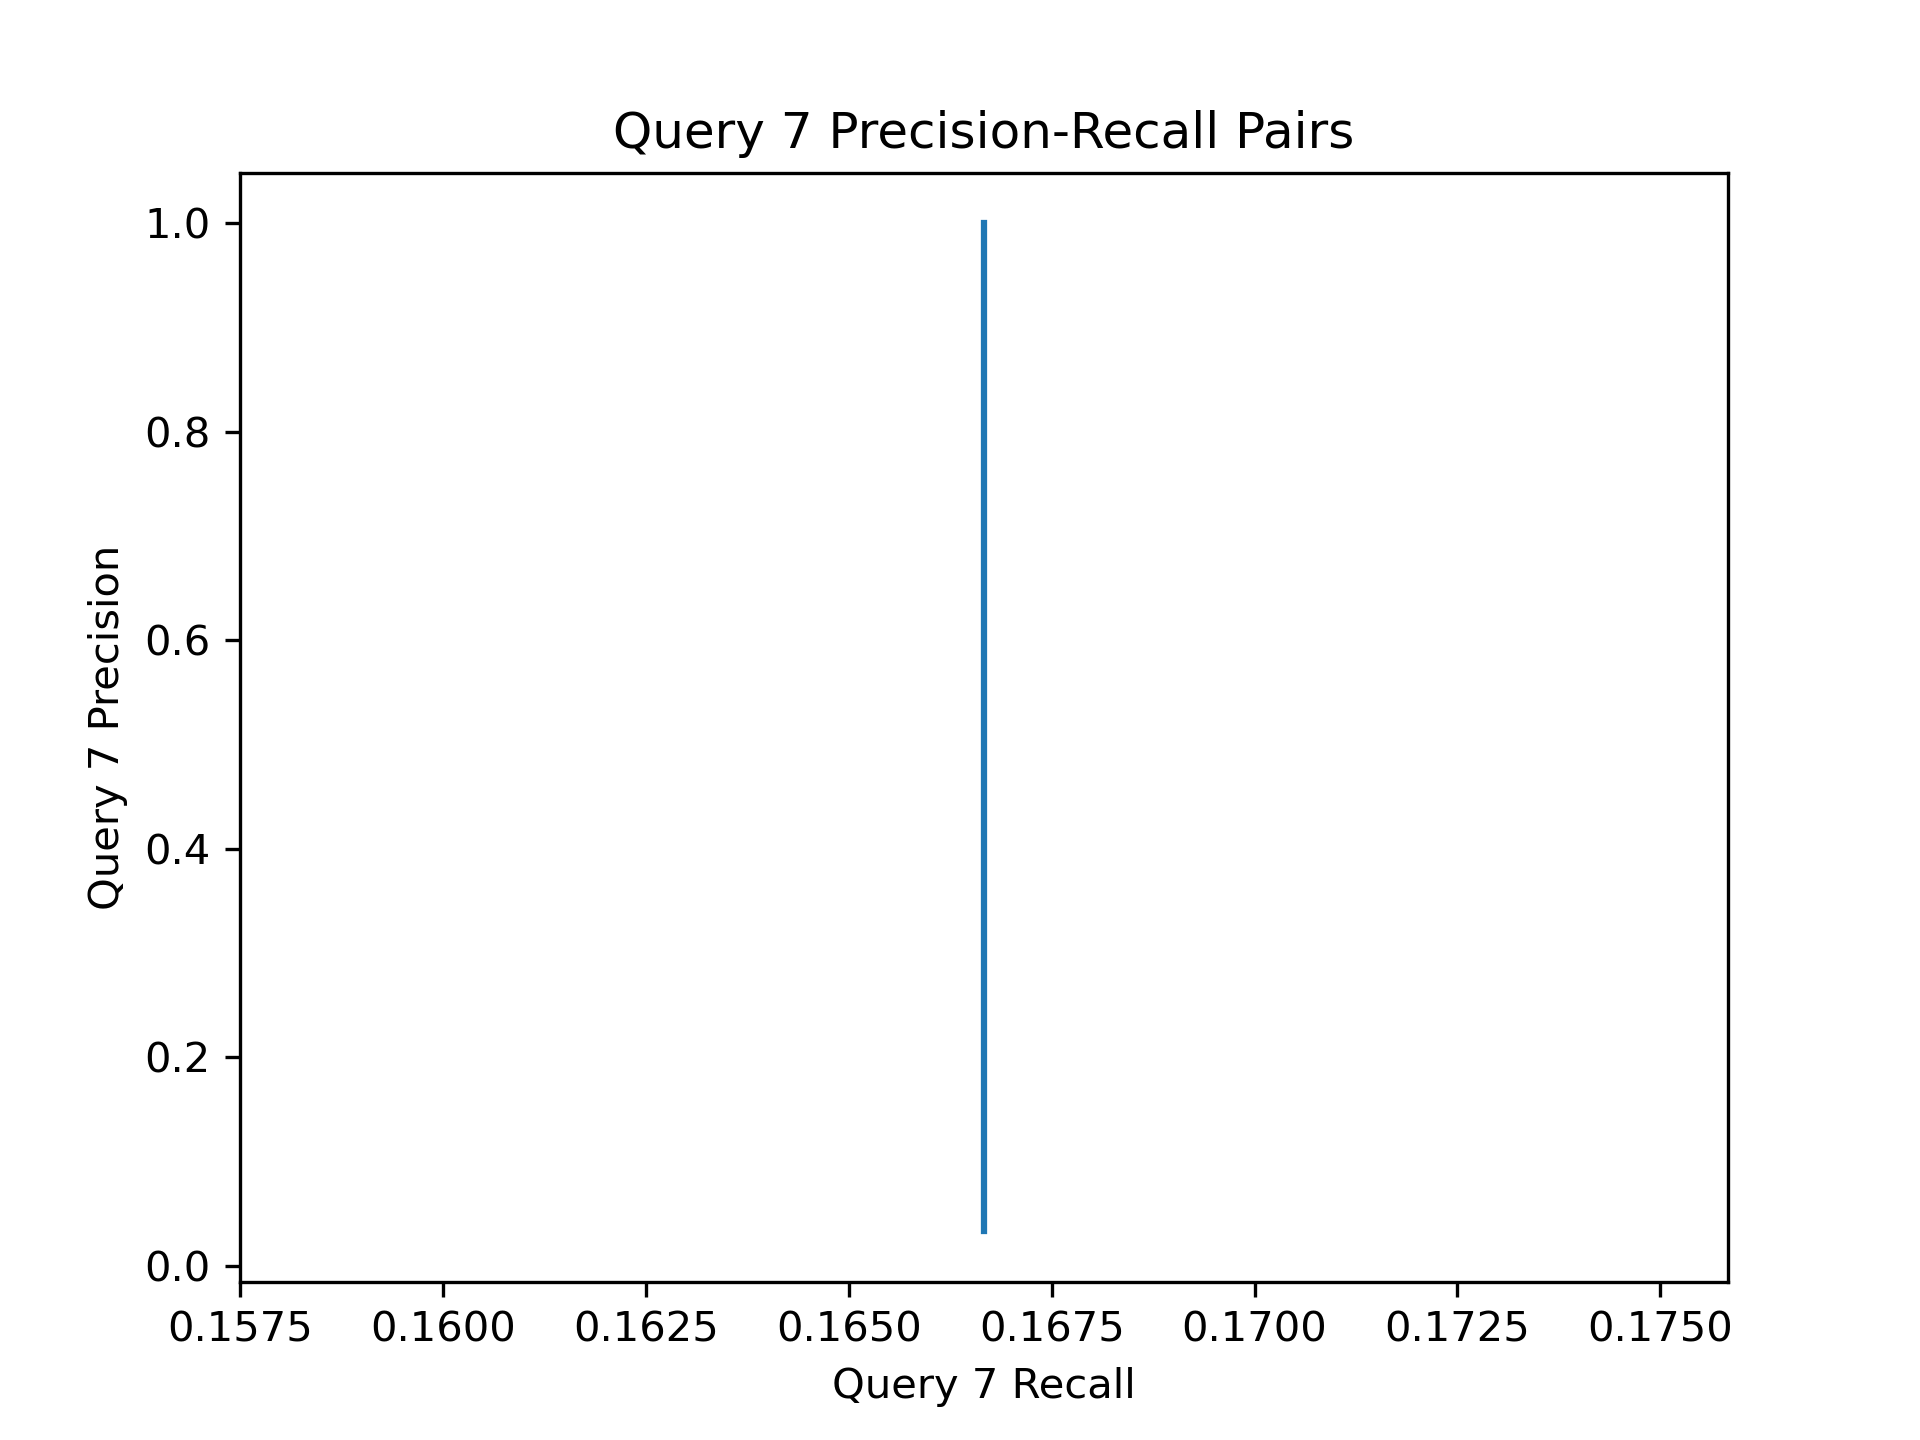
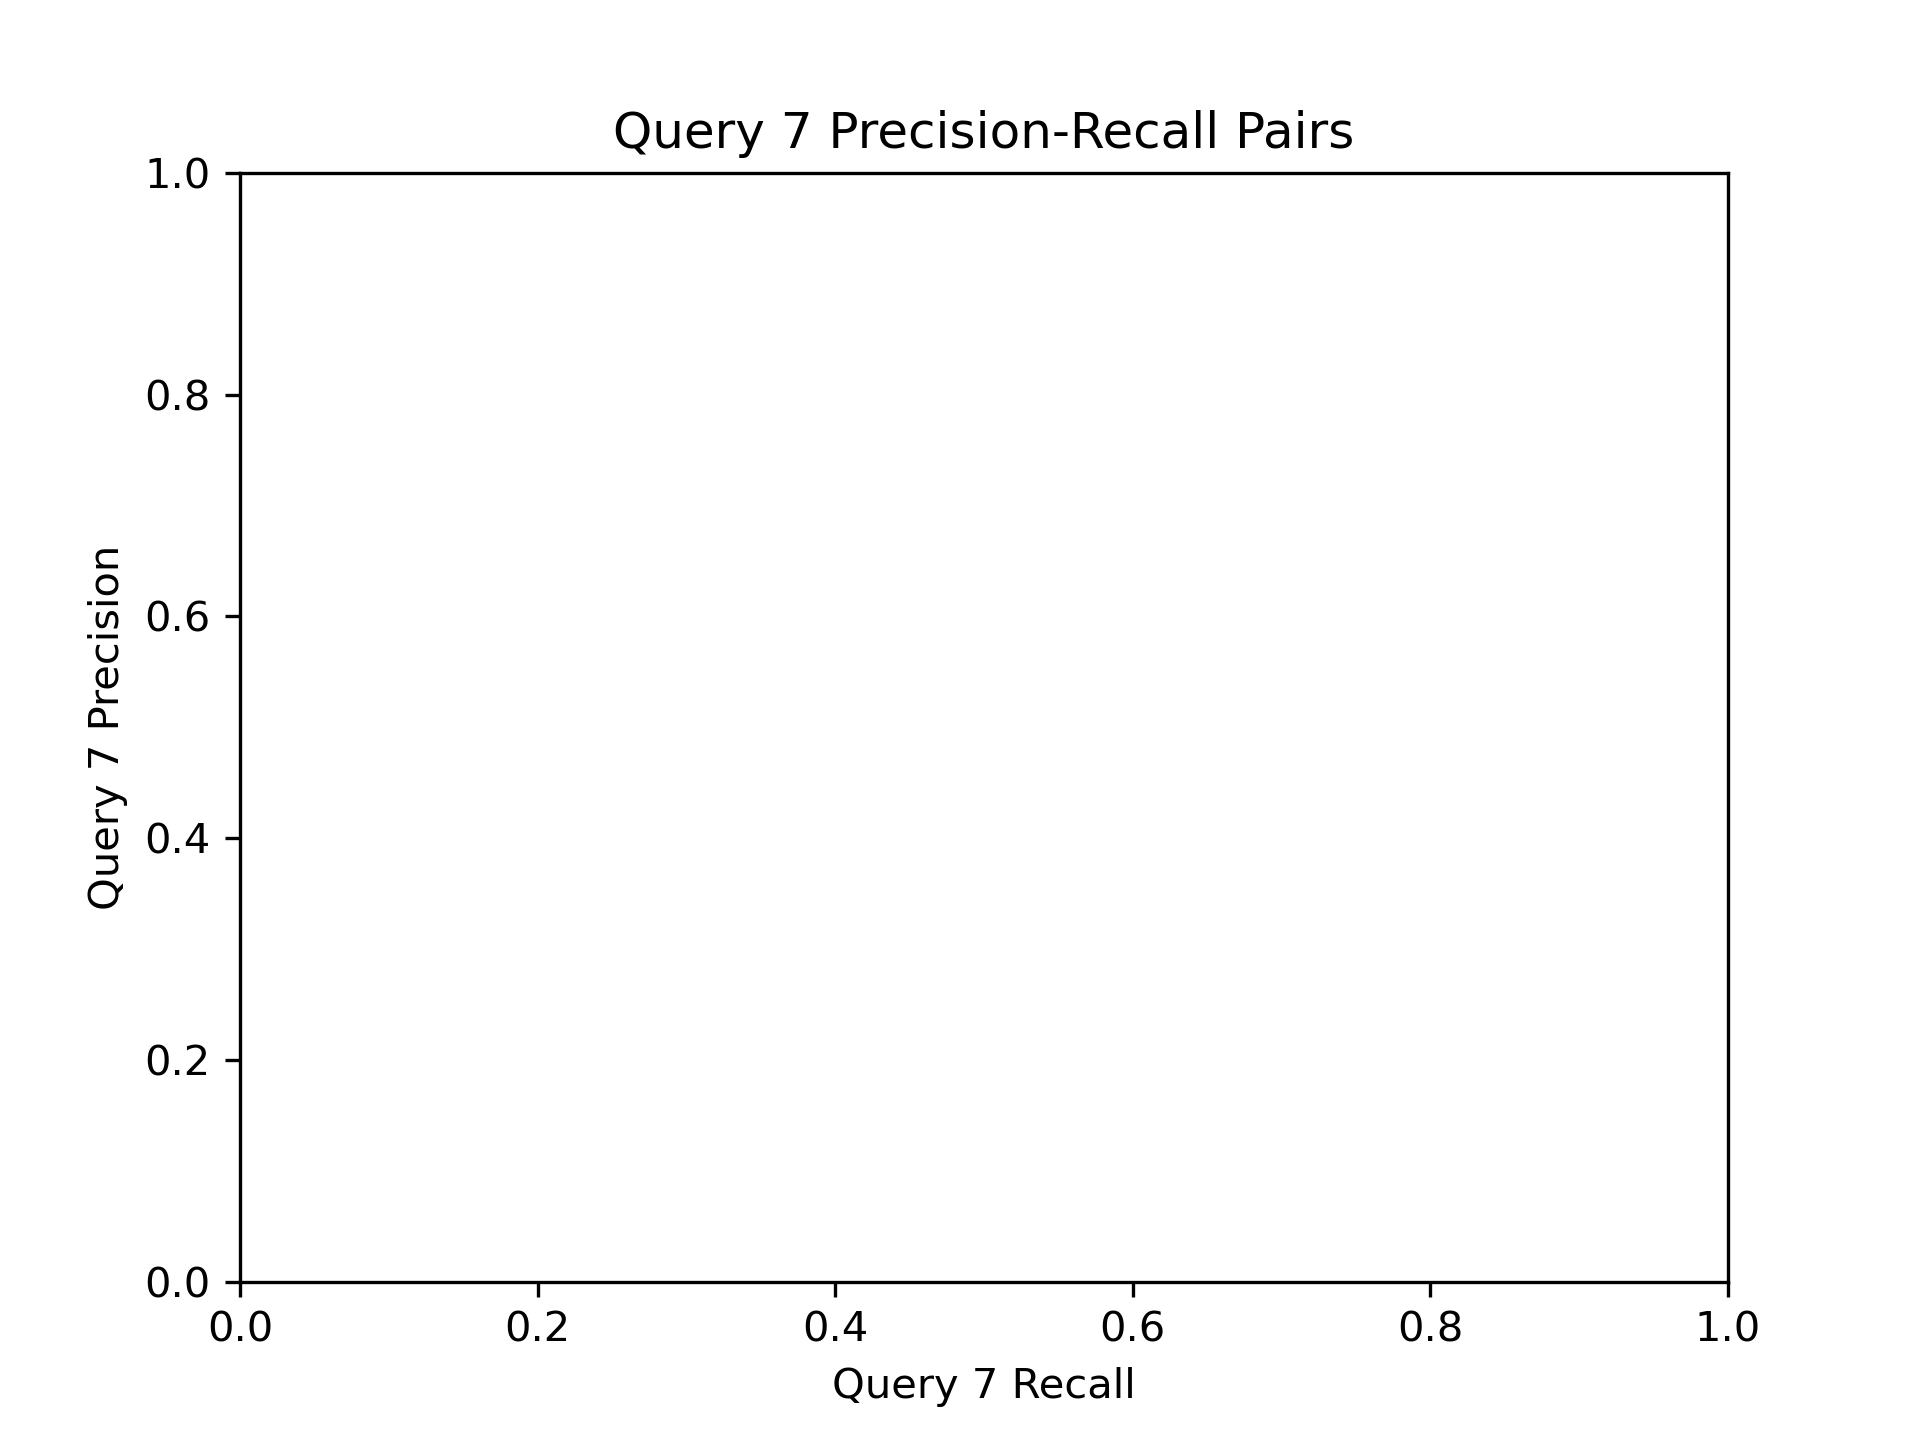
updated evaluation script

diff --git a/src/evaluate_train_qrels.py b/src/evaluate_train_qrels.py
@@ -2,6 +2,10 @@ import numpy as np
 import pandas as pd
 import matplotlib.pyplot as plt
 import pickle
+import nltk 
+nltk.download('wordnet')
+nltk.download('omw-1.4')
+from nltk.corpus import wordnet
 
 # import sys
 # sys.path.append('../')
@@ -80,7 +84,7 @@ class Evaluate:
                         for syn in wordnet.synsets(x):
                             for term in syn.lemmas():
                                 synonyms.append(term.name())
-        query_list=[' '.join(synonyms)]
+        #query_list=[' '.join(synonyms)]
 
         # this will include the lengthier 'description' within query
         desc_list = []
@@ -188,8 +192,21 @@ class Evaluate:
             rx = np.multiply(r,x)
             
             # put list of non-zero precision/recall values into df
-            df_all_queries[f'query{i+1}_precision'] = [a for a in px if x>0]
-            df_all_queries[f'query{i+1}_recall'] = [b for b in rx if x>0]
+            precision_list = [a for a in px if a>0]
+            print(precision_list)
+            #df_all_queries[f'query{i+1}_precision'] = [a for i, a in enumerate(px) if px[i]>0]
+            #df_all_queries[f'query{i+1}_recall'] = [rx[i] for i in range(len(rx)) if rx[i]>0]
+            recall_list = [a for a in rx if a>0]
+            print(recall_list)
+
+            plt.plot(precision_list, recall_list)
+            plt.xlabel(f'Query {i+1} Recall')
+            plt.ylabel(f'Query {i+1} Precision')
+            plt.xlim([0,1])
+            plt.ylim([0,1])
+            plt.title(f'Query {i+1} Precision-Recall Pairs')
+            plt.savefig(f"../Files/precision_recall_query{i+1}.png", dpi=300)
+            plt.show()
 
             # average precision calculation
             AP = px.sum()/sum(x)
@@ -202,20 +219,6 @@ class Evaluate:
         mean_AP= sum(all_APs)/len(all_APs)
         print(f'the mean average precision for all queries is {round(mean_AP,3)}') 
 
-        # create individual precision-recall plots for each query
-        for i in range (len(self.queries)):
-            df_all_queries.plot(x=f'query{i+1}_recall', y = f'query{i+1}_precision', kind = 'line', legend=False)
-            plt.xlabel(f'Query {i+1} Recall')
-            plt.ylabel(f'Query {i+1} Precision')
-            plt.title(f'Query {i+1} Precision-Recall Pairs')
-            plt.savefig(f"../Files/precision_recall_query{i+1}.png", dpi=300)
-
-        # create average across all queries precision-recall plot
-        df_all_queries.plot(x='Average_recall_across_queries', y='Avg_precision_across_queries',  kind = 'line', legend=False)
-        plt.xlabel('Average recall')
-        plt.ylabel('Average precision')
-        plt.title('Average Precision-Recall Pairs across all queriess')
-        plt.savefig("../Files/average_precision_recall_all_queries.png", dpi=300)
         return df_all_queries
 
     def evaluate(self, ):
